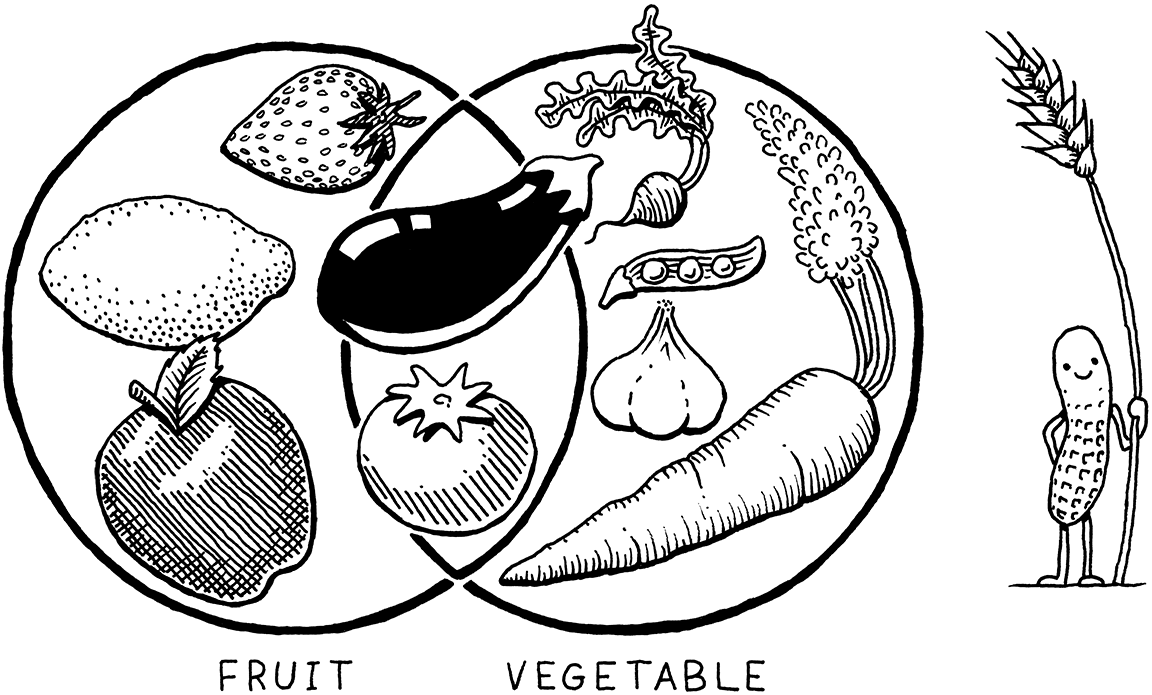
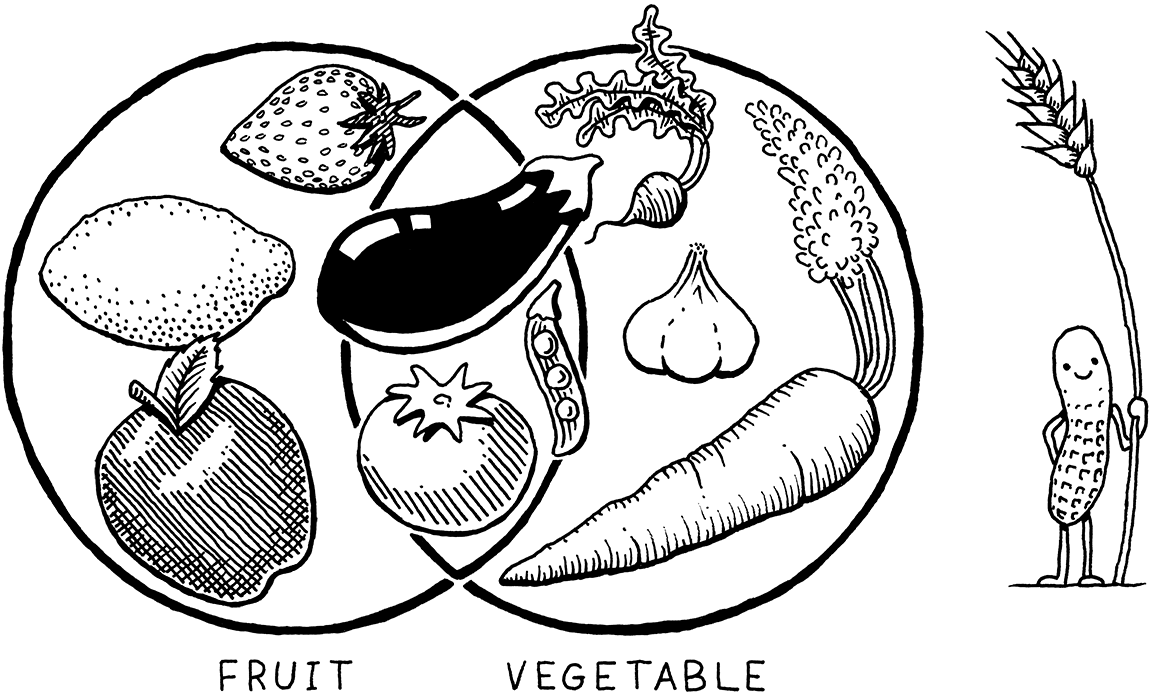
Tweak botanical drawing.
Fix #608.

Changed region(s): [[0.4375, 0.3324, 0.6875, 0.6647]]

diff --git a/site/a-map-of-the-territory.html b/site/a-map-of-the-territory.html
@@ -530,10 +530,10 @@ are not fruits (carrots), but also edible plants that are both fruits <em>and</e
 vegetables, like tomatoes.</p>
 <p><span name="veg"></span></span></p><img src="image/a-map-of-the-territory/plants.png" alt="A Venn diagram of edible plants" />
 <aside name="veg">
-<p>Peanuts (which are not even nuts) and cereals like wheat are actually fruit, but
-I got this drawing wrong. What can I say, I&rsquo;m a software engineer, not a
-botanist. I should probably erase the little peanut guy, but he&rsquo;s so cute that I
-can&rsquo;t bear to.</p>
+<p>Peanuts (which are not even true nuts) and cereals like wheat are actually
+fruit, but I got this drawing wrong. What can I say, I&rsquo;m a software engineer,
+not a botanist. I should probably erase the little peanut guy, but he&rsquo;s so cute
+that I can&rsquo;t bear to.</p>
 <p>Now <em>pine nuts</em>, on the other hand, are plant-based foods that are neither
 fruits nor vegetables. At least as far as I can tell.</p>
 </aside>

diff --git a/book/a-map-of-the-territory.md b/book/a-map-of-the-territory.md
@@ -565,10 +565,10 @@ vegetables, like tomatoes.
 
 <aside name="veg">
 
-Peanuts (which are not even nuts) and cereals like wheat are actually fruit, but
-I got this drawing wrong. What can I say, I'm a software engineer, not a
-botanist. I should probably erase the little peanut guy, but he's so cute that I
-can't bear to.
+Peanuts (which are not even true nuts) and cereals like wheat are actually
+fruit, but I got this drawing wrong. What can I say, I'm a software engineer,
+not a botanist. I should probably erase the little peanut guy, but he's so cute
+that I can't bear to.
 
 Now *pine nuts*, on the other hand, are plant-based foods that are neither
 fruits nor vegetables. At least as far as I can tell.
